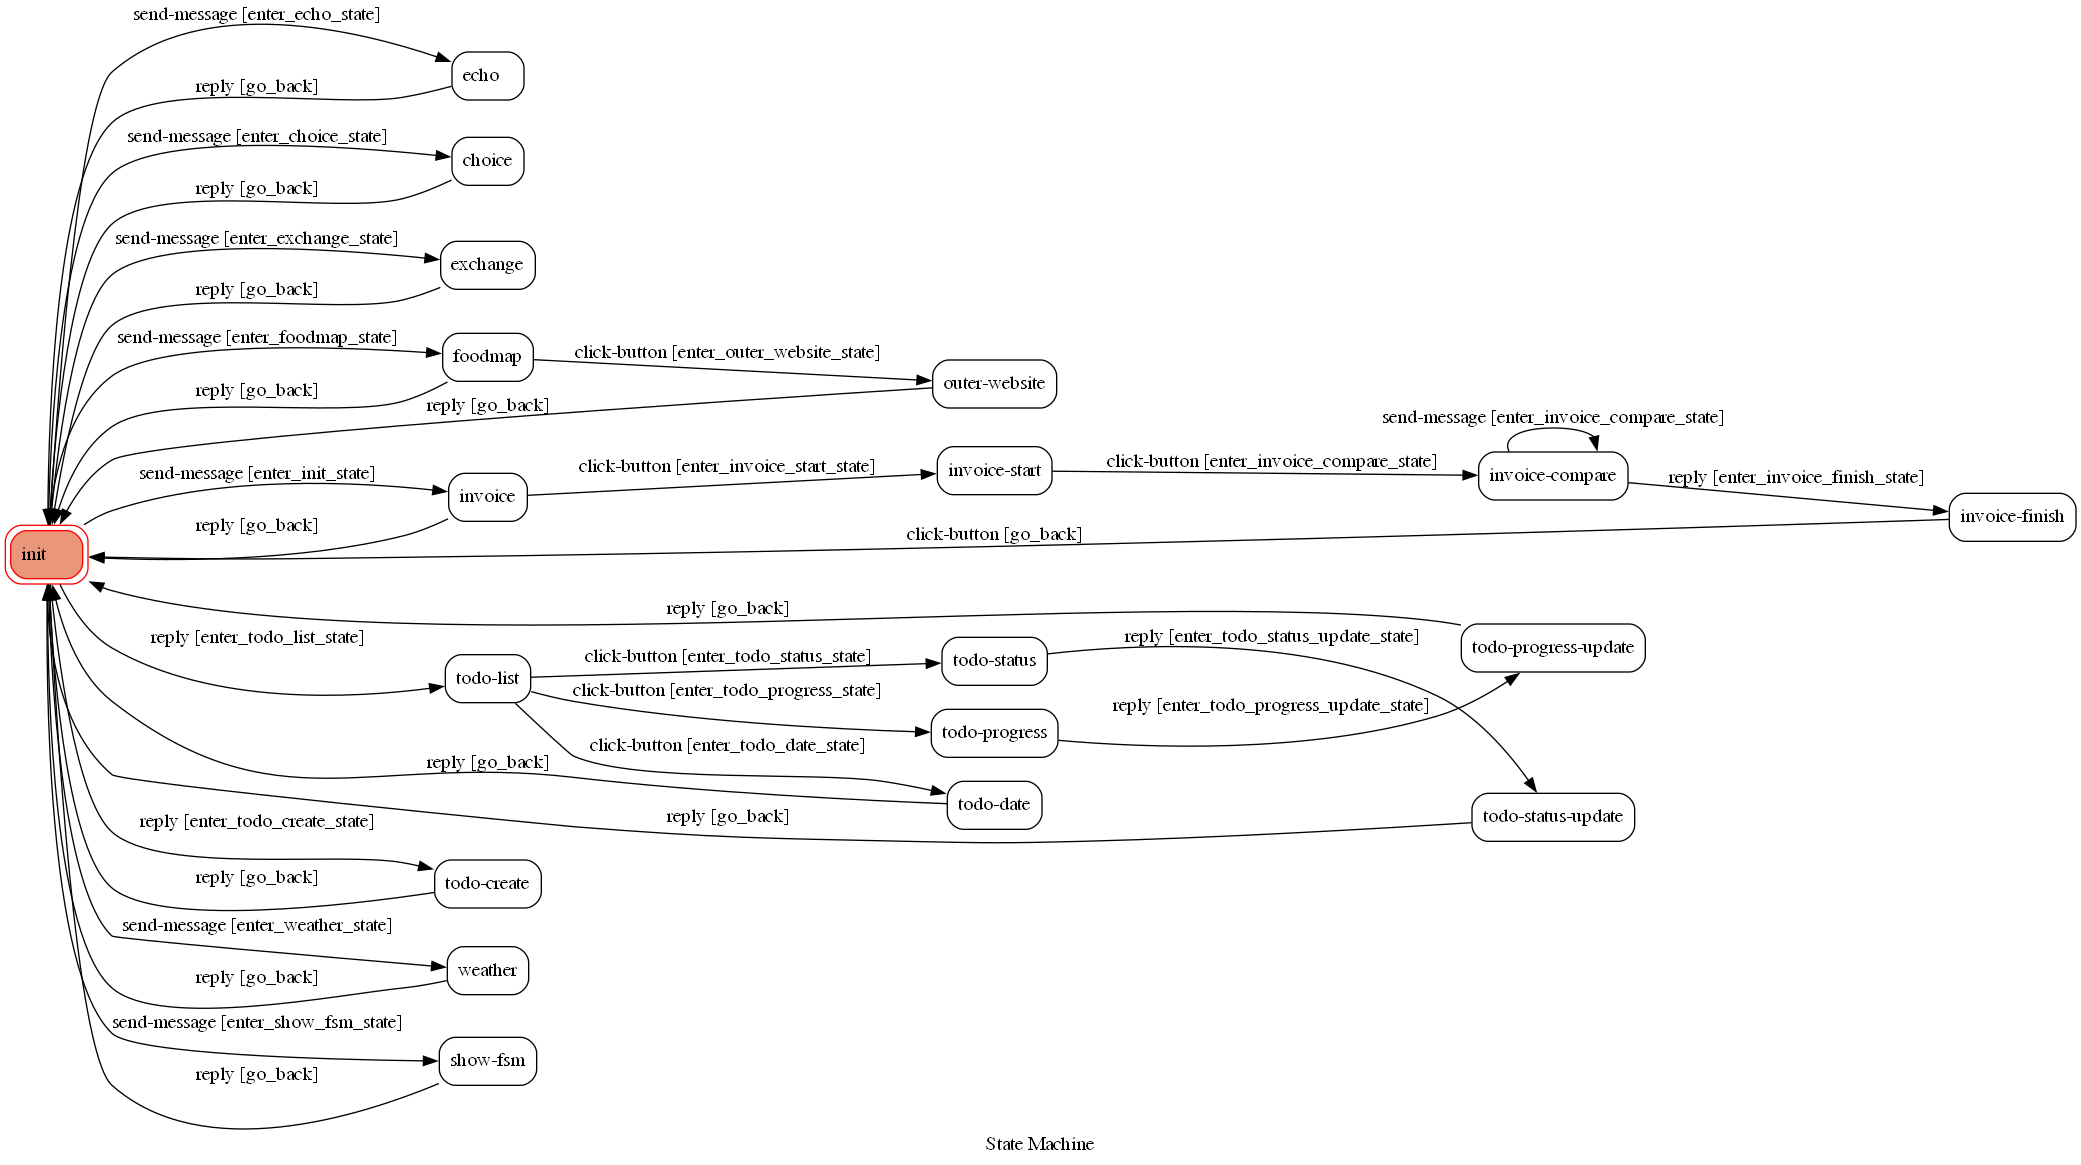
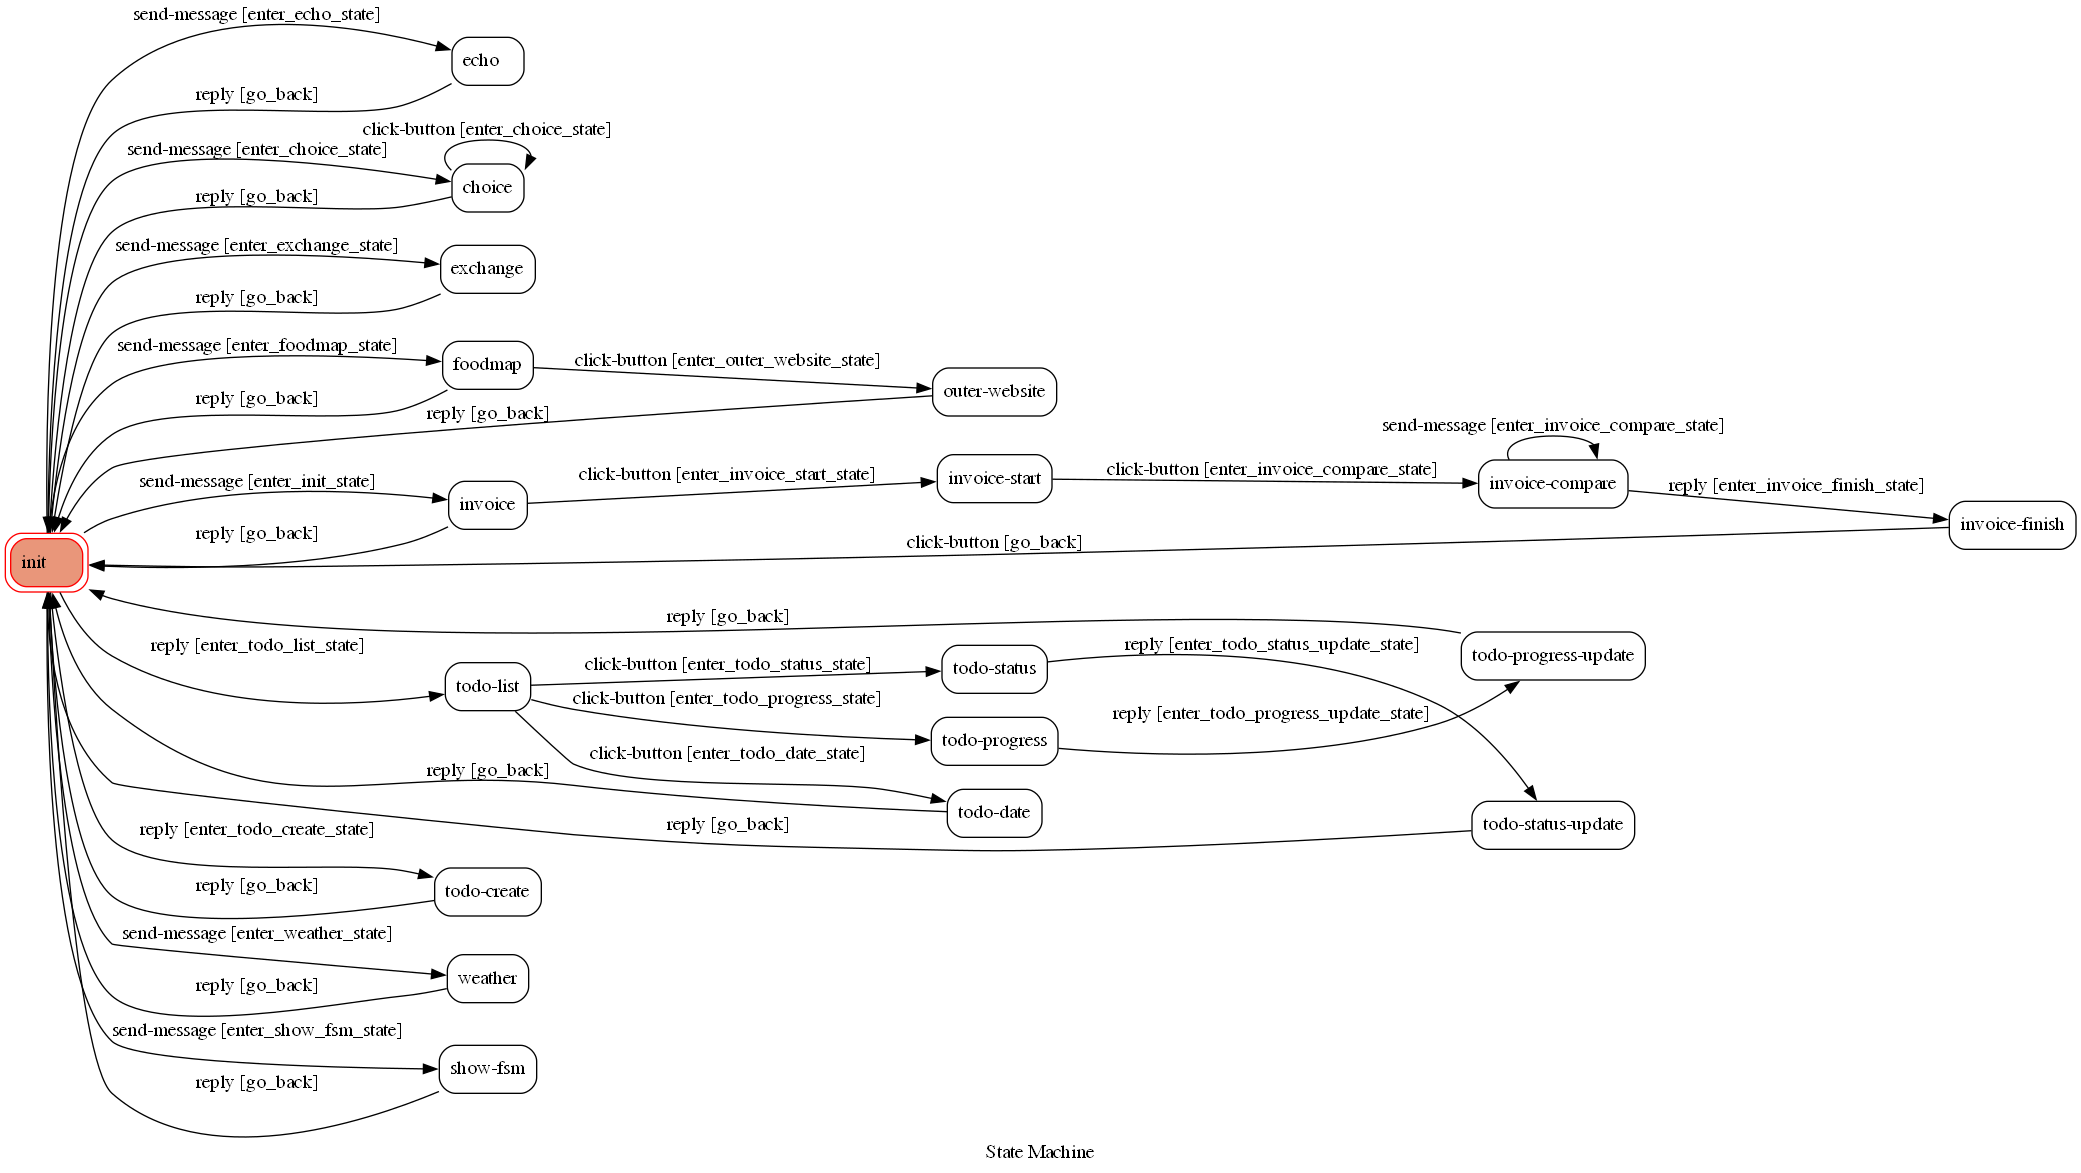
update

diff --git a/fsm.py b/fsm.py
@@ -226,7 +226,9 @@ machine = GraphMachine(model=model, states=['init', 'echo', 'choice', 'exchange'
                            {'trigger': 'reply', 'source': 'outer-website', 'dest': 'init',
                             'conditions': model.go_back},
                            {'trigger': 'send-message', 'source': 'invoice-compare', 'dest': 'invoice-compare',
-                            'conditions': model.enter_invoice_compare_state}
+                            'conditions': model.enter_invoice_compare_state},
+                           {'trigger': 'click-button', 'source': 'choice', 'dest': 'choice',
+                            'conditions': model.enter_choice_state}
 ],
     initial='init', show_conditions=True)
 

diff --git a/skills/choice.py b/skills/choice.py
@@ -6,10 +6,8 @@ from skills import add_skill
 import random
 
 
-@add_skill('/買什麼')
+@add_skill('/choose')
 def get(message_request: MessageRequest):
-
-    # /吃什麼 烤雞.炸雞.鹹酥雞
 
     # 處理字串
     choices_str = message_request.message.replace("/買什麼 ", "")

diff --git a/skills/exchange.py b/skills/exchange.py
@@ -6,7 +6,7 @@ import json
 import os
 
 
-@add_skill('/匯率')
+@add_skill('/exchange')
 def get(message_request: MessageRequest):
     # /匯率 美金 1000
     msg_array = message_request.message.split()

diff --git a/skills/weather.py b/skills/weather.py
@@ -6,7 +6,7 @@ from skills import add_skill
 import requests
 
 
-@add_skill('/天氣預報')
+@add_skill('/weather')
 def get(message_request: MessageRequest):
 
     # /天氣預報 臺北市
